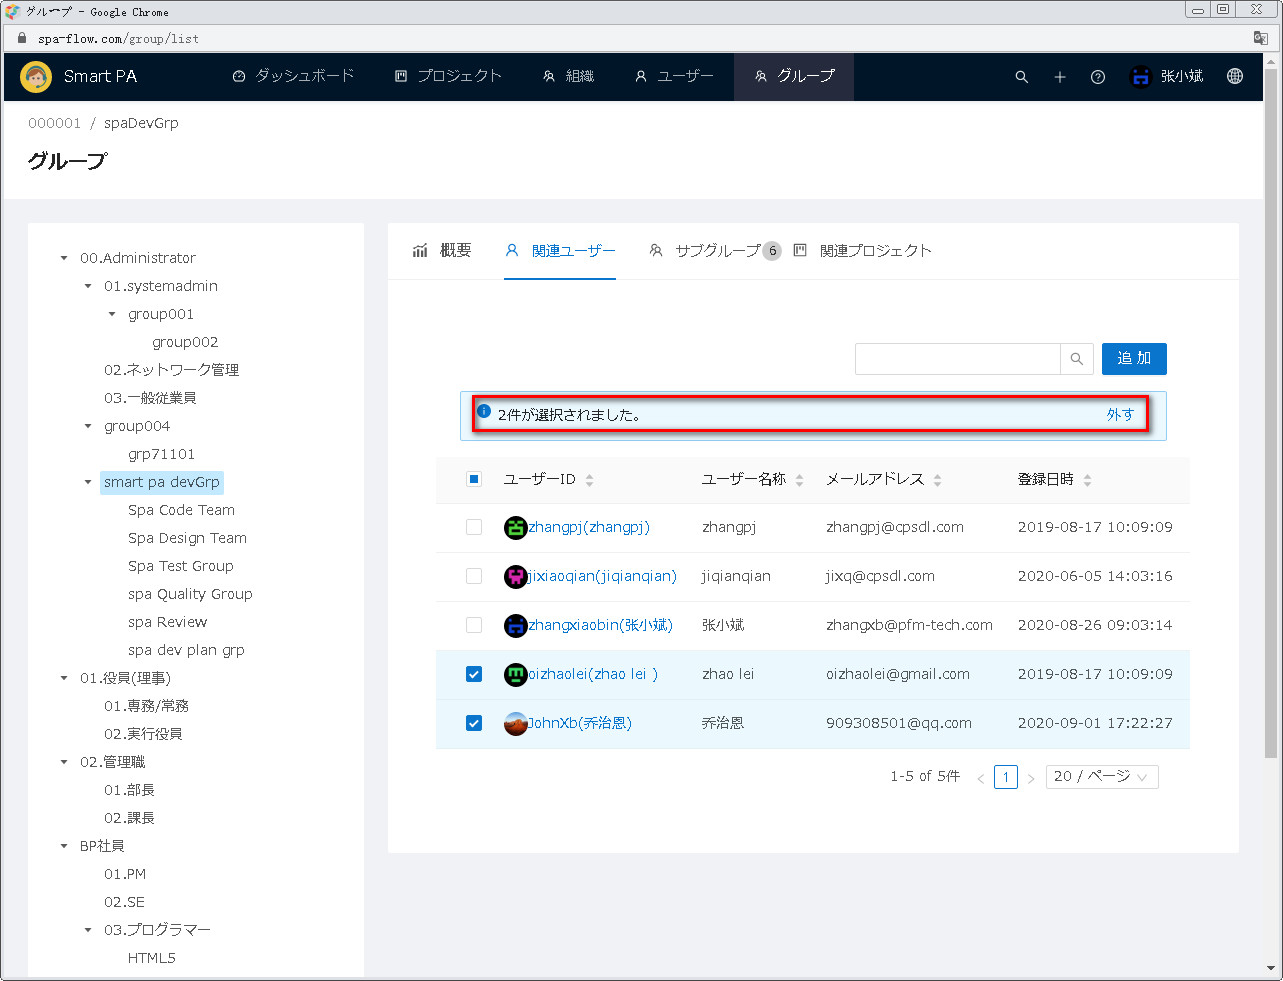
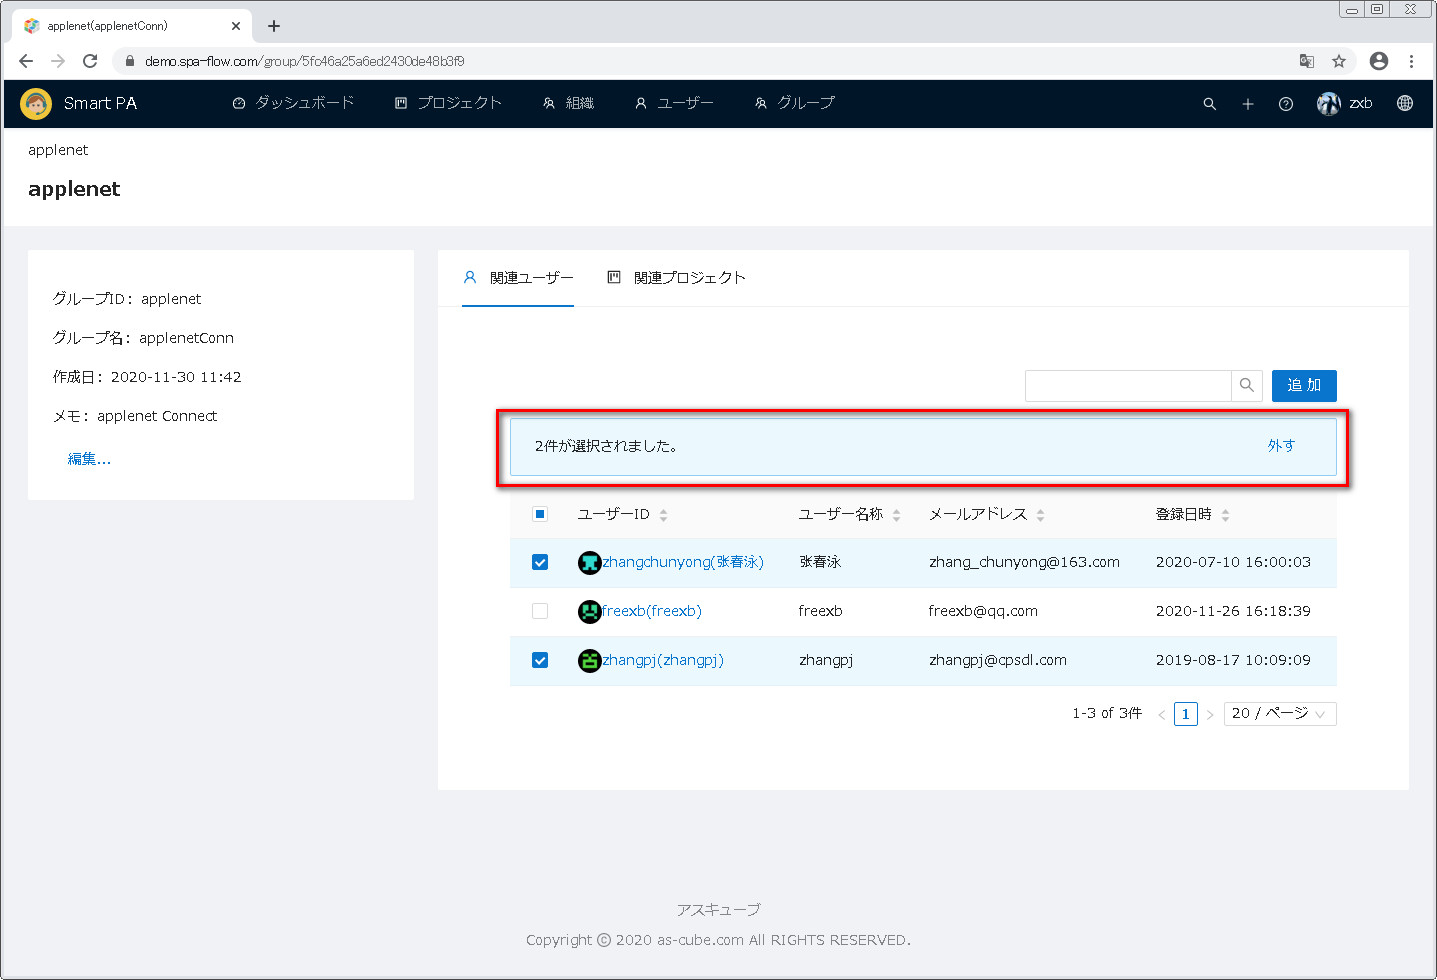
rewriteGroupJpn

diff --git a/userGuide/group-jp.md b/userGuide/group-jp.md
@@ -3,79 +3,109 @@
 ---
 
 ##1 グループ管理画面を開きます
-画面上の方の機能メニューから <u>グループ</u> をクリックし、グループ管理画面が表示されます。  
+
+画面上の方の機能メニューから <u>グループ</u> をクリックし、グループ一覧画面が表示されます。   
 ![avatar](../images-jp/userGuide/group/groupMenu-jp.jpg)
 ![avatar](../images-jp/userGuide/group/groupList-jp.jpg)
 
-##2 グループ新規
+##2 グループ検索
+
+##2.1 グループID又はグループ名に検索文字列が含まれるグループを検索します
+グループ一覧の上に検索ボックスがあり、これを利用してグループ検索ができます。
+マッチパターンは部分一致で、つまりグループID又はグループ名に検索文字列を含むグループが該当されます。
+それに大文字と小文字は区別されません。
+![avatar](../images-jp/userGuide/group/userSelCtrl-jp.jpg)
+
+まず、検索ボックスに検索文字列を入力します。
+![avatar](../images-jp/userGuide/group/inputSelGroupWord-jp.jpg)
+検索ボタン（拡大鏡のアイコン）或いはEnterキーをクリックします。
+![avatar](../images-jp/userGuide/group/selGroupIcon-jp.jpg)
+該当したグループが検索され、一覧に表示されます。
+![avatar](../images-jp/userGuide/group/selectedGroup-jp.jpg)
+
+##2.2 グループ全件を表示します
+グループ全件を表示するには、検索ボックスに入力した文字列を全部消してから、検索ボタン（拡大鏡のアイコン）或いはEnterキーをクリックします。
+
+##3 グループ情報をダウンロードします
+ダウンロードボタンを押すことで、グループ情報一覧をCSVファイルとしてダウンロードできます。
+
+ダウンロードボタンをクリックします。
+![avatar](../images-jp/userGuide/group/downGroupFileIcon-jp.jpg)
+ダウンロードが完了したら、ダウンロード状態欄にダウンロード済みのファイルが表示され、そばの矢印をクリックします。
+![avatar](../images-jp/userGuide/group/downloadedGroup-jp.jpg)
+表示されるメニューから、<u>フォルダを開く</u>をクリックします。
+![avatar](../images-jp/userGuide/group/showDownFileInFld-jp.jpg)
+フォールダが開かれ、ダウンロードされたファイルが表示されます。
+![avatar](../images-jp/userGuide/group/openDownFileFld-jp.jpg)
+ファイルを開き、グループ情報を確認出来ます。
+![avatar](../images-jp/userGuide/group/openDownGroupFile-jp.jpg)
+
+##4 グループ新規
 グループ新規に両方法があります。
-&emsp;方法一：画面の左の方のグループ一覧の下にある <u>新規...</u> ボタンをクリックします。
-&emsp;方法二：画面の右の方の概要タグの下にある <u>新規...</u> ボタンをクリックします。
-両方の違いは下記通りです：
-&emsp;方法一：グループ新規画面を開いた時に、上位グループの暗黙値が空です。
-&emsp;方法二：グループ新規画面を開いた時に、上位グループの暗黙値が現在選択したグループです。
+方法一はグループ一覧上の<u>新規</u>ボタンをクリックします。
+方法二はアップロードボタンをクリックし、グループ情報のCSVファイルをアップロードしてグループを新規します。
+方法二により複数グループを一回で新規出来ます。
+![avatar](../images-jp/userGuide/group/newGroupTwoBtn-jp.jpg)
+下記は両方法を別々に説明します。
 
-下記で両方法を別々に説明します。
-
-##2.1 画面の左の方のグループ一覧の下にある <u>新規...</u> ボタンをクリックして<br/>&emsp;&ensp;グループを新規します
-画面の左のグループ一覧の下にある <u>新規...</u> ボタンをクリックします。
-![avatar](../images-jp/userGuide/group/addGroupBtnLeft-jp.jpg)
-グループ新規画面が表示されます。上位グループの暗黙値が空となります。
-![avatar](../images-jp/userGuide/group/newGroupInitNoSup-jp.jpg)
-グループ情報を入力してから、<u>保存</u>ボタンをクリックします。
-[備考]&emsp;上位グループを入力しないと、新規したグループがトップレベルグループとなります。
+###4.1 新規ボタンでグループを新規します
+グループ一覧の上の<u>新規</u>ボタンをクリックします。
+![avatar](../images-jp/userGuide/group/addGroupBtn-jp.jpg)
+グループ新規画面が表示されます。
+![avatar](../images-jp/userGuide/group/newGroupInit-jp.jpg)
+新規グループの情報を入力してから、保存ボタンをクリックします。
 ![avatar](../images-jp/userGuide/group/newGroup-jp.jpg)
-保存した後、グループ一覧画面へ戻ります。
-画面の左の方のグループ一覧から新規したグループの上位グループをクリックしてから、
-画面の右の方のサブグループのタグをクリックし、新規したグループがサブグループ一覧に表示されます。
-![avatar](../images-jp/userGuide/group/newGroupSaved-jp.jpg)
+グループ一覧に戻り、一覧に新規したグループが表示されます。
+![avatar](../images-jp/userGuide/group/groupCreated-jp.jpg)
 
-##2.2 画面の右の方の概要タグの下にある <u>新規...</u> ボタンをクリックしてグループを<br/>&emsp;&ensp;新規します
-左のグループ一覧からあるグループをクリックして、概要タグの下にある<u>新規...</u>ボタンをクリックします。
-![avatar](../images-jp/userGuide/group/addGroupBtnRight-jp.jpg)
-グループ新規画面が表示されます。上位グループの暗黙値が選択したグループとなります。
-![avatar](../images-jp/userGuide/group/newGroupInitHaveSup-jp.jpg)
-グループ情報を入力してから、<u>保存</u>ボタンをクリックします。
-![avatar](../images-jp/userGuide/group/newGroupHaveSup-jp.jpg)
-保存した後、グループ一覧画面へ戻ります。
-画面の左の方のグループ一覧から新規したグループの上位グループをクリックし、
-画面の右の方のサブグループのタグをクリックし、新規したグループがサブグループ一覧に表示されます。
-![avatar](../images-jp/userGuide/group/newGroupSavedHaveSup-jp.jpg)
+###4.2 CSVファイルをアップロードしてグループを新規します
+グループ情報のcsvファイルを用意しておきます。ファイル内容と形式は下図の通りです。
+![avatar](../images-jp/userGuide/group/groupCsvFile-jp.jpg)
+グループ一覧の右上のアップロードボタンをクリックします。
+![avatar](../images-jp/userGuide/group/uploadGroupCsvIcon-jp.jpg)
+ファイル選択ダイアログボックスが表示されます。
+![avatar](../images-jp/userGuide/group/selFileDlgGroupCsv-jp.jpg)
+事前に用意したcsvファイルを選択してから、開くボタンをクリックします。
+![avatar](../images-jp/userGuide/group/selectedGroupCsv_cn.jpg)
+グループ一覧画面が再表示され、csvファイルに書かれたグループが一覧に表示されます。
+![avatar](../images-jp/userGuide/group/addedGroupByCsv-jp.jpg)
 
-##3 グループ編集
-画面の左のグループ一覧から、編集するグループを選択し、画面の右の方に当グループ情報が表示され、
-情報は 概要、関連ユーザー、サブグループ、関連プロジェクト の四部分に分かられます。
-![avatar](../images-jp/userGuide/group/selectGroup-jp.jpg)
 
-###3.1 グループ概要編集
-概要タグの下にある<u>編集...</u>ボタンをクリックします。
+##5 グループ総合情報管理
+グループ一覧に管理するグループIDをクリックします（一覧に表示するグループ件数が多い時に検索により表示件数を縮めて良いです）。
+![avatar](../images-jp/userGuide/group/clickGrpIdInGrpList-jp.jpg)
+当画面で、グループ基本情報の編集、関連ユーザーの管理と関連プロジェクトの確認ができます。
+![avatar](../images-jp/userGuide/group/groupViewInit-jp.jpg)
+
+###5.1 グループ基本情報を編集します
+画面左側の<u>編集</u>ボタンをクリックします。
 ![avatar](../images-jp/userGuide/group/editGroupBtn-jp.jpg)
-グループ概要編集画面が表示されます。
+グループ編集画面が表示されます。
 ![avatar](../images-jp/userGuide/group/editGroupInit-jp.jpg)
-画面でグループ情報を編集してから、<u>保存</u>ボタンをクリックします。
+グループ情報を直してから、保存ボタンをクリックします。
 ![avatar](../images-jp/userGuide/group/editGroup-jp.jpg)
-グループ一覧画面へ戻り、直された情報が再表示されます。
+グループ一覧画面に戻り、直されたグループ情報が再表示されます。
 ![avatar](../images-jp/userGuide/group/editGroupSaved-jp.jpg)
 
-###3.2 関連ユーザー管理
+###5.2 関連ユーザー管理
 関連ユーザーのタブをクリックし、当グループの関連ユーザー一覧画面が表示されます。
 この画面で、関連ユーザーを追加すること、関連ユーザーを外すことが出来ます。
 ![avatar](../images-jp/userGuide/group/userList-jp.jpg)
 
-####3.2.1 関連ユーザーを追加します
+####5.2.1 関連ユーザーを追加します
 関連ユーザー一覧右上の<u>追加</u>ボタンをクリックします。
-![avatar](../images-jp/userGuide/group/userListAddBtn-cn.jpg)
+![avatar](../images-jp/userGuide/group/userListAddBtn-jp.jpg)
 ユーザー追加ダイアログが表示されます。
 ![avatar](../images-jp/userGuide/group/addUserDlg-jp.jpg)
 追加するユーザー名を入力します。
 入力しているうちに入力した文字列と名前がマッチしたユーザーがリストアップしますので、リストから選択してよいです。 
 ![avatar](../images-jp/userGuide/group/addUserDlgSel-jp.jpg)
-追加するユーザーを入力してから、OKボタンをクリックします。(追加を取り消したい時に、キャンセルボタンをクリックします）。
+追加するユーザーを入力してから、OKボタンをクリックします。(追加を放棄する時に、キャンセルボタンをクリックします）。
 ![avatar](../images-jp/userGuide/group/addUserDlgSelected-jp.jpg)
 関連ユーザー一覧画面に戻ります。追加したユーザーが関連ユーザー一覧に表示されます。
 ![avatar](../images-jp/userGuide/group/addUserSaved-jp.jpg)
 
-####3.2.2 関連ユーザーを外します
+####5.2.2 関連ユーザーを外します
 外すユーザー前のチェックボックスをチェックオンします。
 ![avatar](../images-jp/userGuide/group/delUserChk-jp.jpg)
 関連ユーザー一覧の上に選択した件数と<u>外す</u>ボタンが表示されます。
@@ -85,42 +115,26 @@
 関連ユーザー一覧が再表示され、外されたユーザーが一覧から無くなります。
 ![avatar](../images-jp/userGuide/group/deledUser-jp.jpg)
 
-###3.3 サブグループ管理
-サブグループのタグをクリックしてサブグループ一覧画面が表示されます。
-当画面で、下記の機能が提供されます：
-&emsp;サブグループを削除します
-&emsp;サブグループの詳細情報を確認します
-![avatar](../images-jp/userGuide/group/childGroupList-jp.jpg)
-
-####3.3.1 サブグループを消します
-サブグループ一覧から、消すサブグループをチェックオンします。
-![avatar](../images-jp/userGuide/group/delGroupChk-jp.jpg)
-サブグループ一覧の上に選択件数と削除ボタンが表示されます。
-![avatar](../images-jp/userGuide/group/delGroupChkOn-jp.jpg)
-削除ボタンをクリックし、削除確認ダイアログが表示されます。
-OKボタンをクリックします。(削除を取り消したい時にキャンセルボタンを押す)。
-![avatar](../images-jp/userGuide/group/delGroupConfirm-jp.jpg)
-サブグループ一覧が再表示されます。削除されたサブグループが一覧から無くなります。
-![avatar](../images-jp/userGuide/group/deledGroup-jp.jpg)
-
-####3.3.2 サブグループの詳細情報を確認します
-サブグループ一覧から、詳細情報確認するサブグループIDのリンクをクリックし、サブグループの詳細情報画面が表示されます。
-![avatar](../images-jp/userGuide/group/childGroupLink-jp.jpg)
-![avatar](../images-jp/userGuide/group/childGroupDetail-jp.jpg)
-当画面で、左の方に<u>編集...</u>と<u>新規...</u>の両ボタンがあり、右の方に関連ユーザー、サブグループと関連プロジェクト
-の三タグ画面があります。各機能は下記通りです：
-&emsp;編集ボタン：当ボタンをクリックしたら、グループ編集画面が表示されます（###3.1グループ概要の編集を参照）。
-&emsp;新規ボタン：当ボタンをクリックしたら、グループ新規画面が表示されます(##2.2画面の右の方の概要タグの下にある
-&emsp;&emsp;&emsp;&emsp;&emsp;&emsp;&emsp;<u>新規...</u> ボタンをクリックしてグループを新規しますを参照)。
-&emsp;関連ユーザー：<u>###3.2関連ユーザー管理</u>を参照。
-&emsp;サブグループ：<u>###3.3サブグループ管理</u>を参照
-&emsp;関連プロジェクト：<u>###3.4関連プロジェクト管理</u>を参照
-
-###3.4 関連プロジェクト管理
+###5.3 関連プロジェクト確認
 関連プロジェクトをクリックし、関連プロジェクト管理一覧画面が表示されます。
+![avatar](../images-jp/userGuide/group/relatedPrjTab-jp.jpg)
 ![avatar](../images-jp/userGuide/group/relatedPrj-jp.jpg)
-###3.4.1プロジェクト詳細情報を確認します
+###5.3.1プロジェクト詳細情報を確認します
 詳細情報を確認するプロジェクトIDのリンクをクリックします。
 ![avatar](../images-jp/userGuide/group/relatedPrjLink-jp.jpg)
 プロジェクト詳細画面が表示されます。
 ![avatar](../images-jp/userGuide/group/relatedPrjDetail-jp.jpg)
+
+##6. グループ削除
+グループ一覧から消すグループを選びます。一覧に表示するグループ数が多すぎ時に、検索で表示数を縮まられます。
+![avatar](../images-jp/userGuide/group/selectGroupInGroupList-jp.jpg)
+消すグループを選択したら、一覧の直上に選択件数と削除ボタンが表示されます。
+![avatar](../images-jp/userGuide/group/selectedGroupInUserList-jp.jpg)
+削除ボタンをクリックします。
+![avatar](../images-jp/userGuide/group/groupListDeleteBtn-jp.jpg)
+削除確認ダイアログボックスが表示されます。
+![avatar](../images-jp/userGuide/group/deleteGroupFromListConfirm-jp.jpg)
+確認ダイアログボックスでOKボタンをクリックします(削除を放棄する場合にキャンセルボタンをクリックします)。
+![avatar](../images-jp/userGuide/group/deleteGroupFromListConfirmOkBtn-jp.jpg)
+グループ削除が終わりです。
+![avatar](../images-jp/userGuide/group/deletedGroupFromList-jp.jpg)

diff --git a/userGuide/group-cn.md b/userGuide/group-cn.md
@@ -42,7 +42,7 @@
 新建群组有两种方式。
 一种是点击<u>+新建</u>按钮，进入创建群组页面来新建群组。
 另一种是通过点击上传按钮，通过上传csv文件来批量建立群组。
-
+![avatar](../images/userGuide/group/newGroupTwoBtn-cn.jpg)
 以下分别说明两种新建群组的方法。
 
 ###4.1 新建群组
@@ -75,7 +75,7 @@
 ![avatar](../images/userGuide/group/groupViewInit-cn.jpg)
 
 ###5.1 编辑群组基本信息
-点击概要下面的<u>编辑...</u>按钮，即可进入群组修改页面。
+点击页面左侧的<u>编辑...</u>按钮，即可进入群组修改页面。
 ![avatar](../images/userGuide/group/editGroupBtn-cn.jpg)
 进入群组编辑页面。
 ![avatar](../images/userGuide/group/editGroupInit-cn.jpg)
